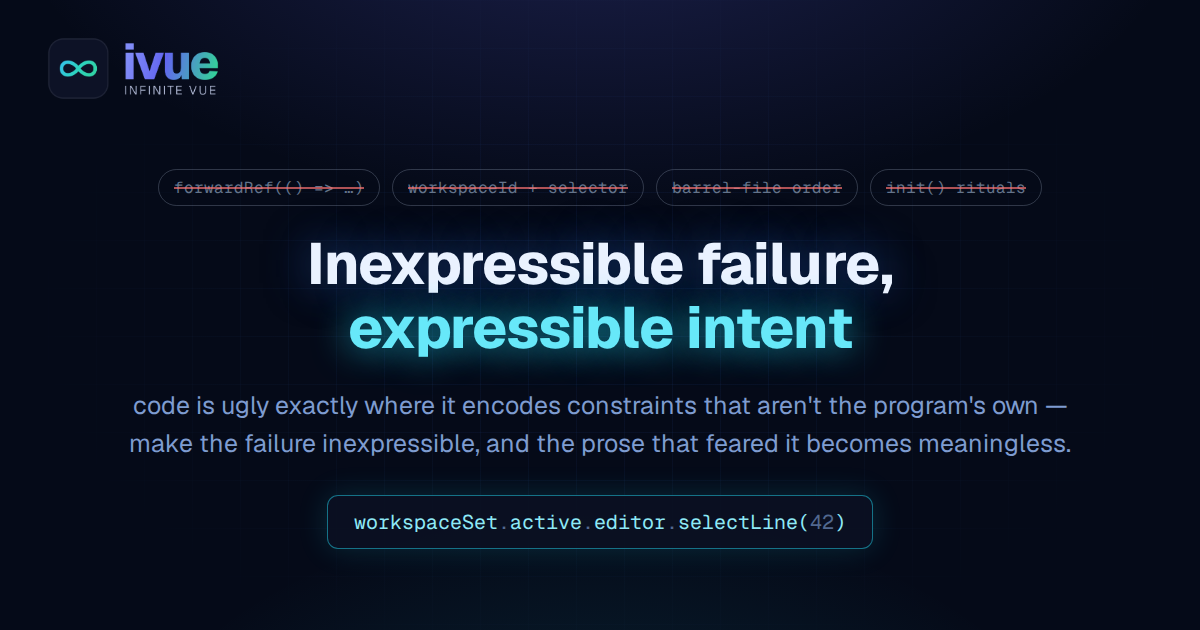
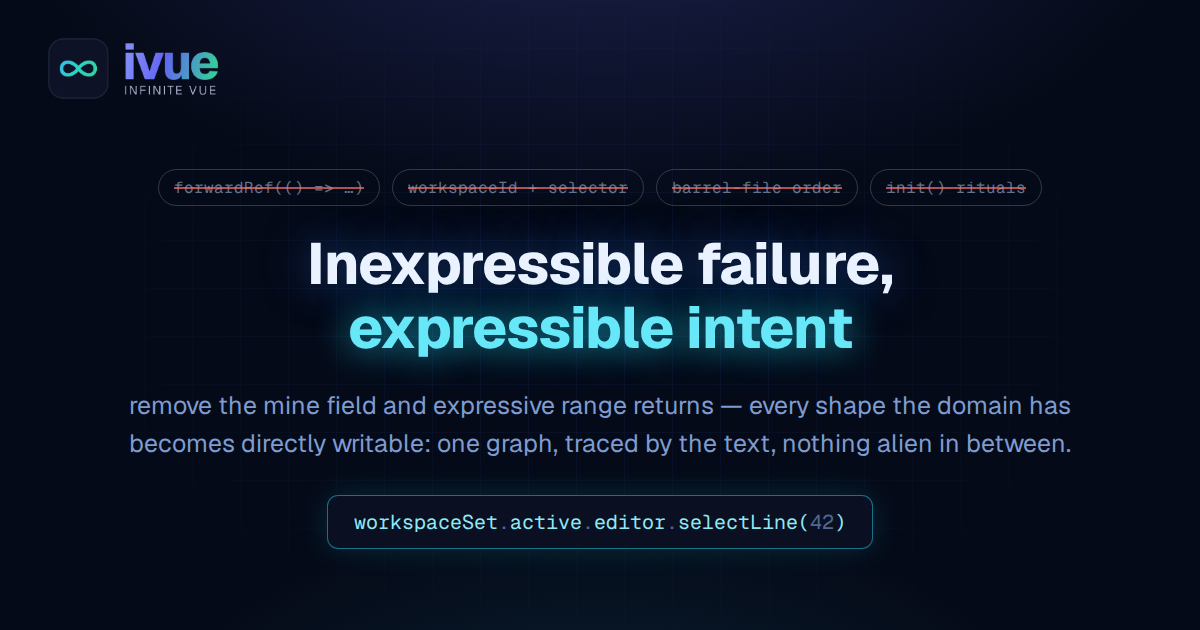
blog: expressive-range reframe, tight preamble, evaluation-order section
The essay's center is shape fidelity, not cleanliness: every shape
the domain has becomes directly writable once the mine field is gone
— the set of writable programs grows back to the set of thinkable
ones. Twelve-line preamble; meat starts at 'The evaluation-order
constraint'.

Changed region(s): [[0.0925, 0.6937, 0.8942, 0.7238], [0.0925, 0.6333, 0.8942, 0.6635]]

diff --git a/.claude/skills/blog-banner/banners/inexpressible-failure-expressible-intent.html b/.claude/skills/blog-banner/banners/inexpressible-failure-expressible-intent.html
@@ -90,7 +90,7 @@
       <span class="fear">init() rituals</span>
     </div>
     <div class="title">Inexpressible failure,<br/><span class="glow">expressible intent</span></div>
-    <div class="sub">code is ugly exactly where it encodes constraints that aren't the program's own —<br/>make the failure inexpressible, and the prose that feared it becomes meaningless.</div>
+    <div class="sub">remove the mine field and expressive range returns — every shape the domain has<br/>becomes directly writable: one graph, traced by the text, nothing alien in between.</div>
     <div class="sentence">workspaceSet<span class="dim">.</span>active<span class="dim">.</span>editor<span class="dim">.</span>selectLine(<span class="dim">42</span>)</div>
   </div>
 </body>

diff --git a/docs_v2/blog/inexpressible-failure-expressible-intent.md b/docs_v2/blog/inexpressible-failure-expressible-intent.md
@@ -1,6 +1,6 @@
 ---
 title: 'Inexpressible failure, expressible intent'
-description: "Code is ugly exactly where it encodes constraints that aren't the program's own. Make the alien failure modes inexpressible and succinctness isn't a style you apply — it's what's left."
+description: "Every failure mode a substrate leaves expressible squats on territory intent should own. Remove the mine field and something bigger than cleanliness returns: every shape the domain has becomes directly writable — one graph, traced by the text with nothing alien interrupting it."
 tags: [philosophy, architecture]
 relatedPosts: [circular-imports-dissolved, the-object-graph-they-took, the-field-not-the-rules, win-by-reduction, what-javascript-becomes]
 date: 2026-08
@@ -12,40 +12,28 @@ date: 2026-08
 
 <BlogPostDate />
 
-A language gives you one space, not two. What you can *say* and what
-can *go wrong* live in the same place — every failure mode a
-substrate leaves expressible sits inside your expression space,
-squatting on territory that intent should own. Not because anyone
-writes the failures on purpose, but because everyone must write the
-code that routes around them — and the routing is text, and the text
-crowds out the program.
-
-So the trade at the heart of this essay is stark:
+Every failure mode a substrate leaves expressible costs you twice:
+once when it fires, and every day in the code you write to route
+around it. The routing is text, and the text crowds out the program.
 
 > Make the failure inexpressible, and the intent becomes expressible.
-> The two spaces are one space; what the mine field vacates, meaning
-> occupies.
+> What the mine field vacates, meaning occupies.
 
-To see what that buys, start with what intent *is*. Every program has
-an intent with a *shape* — a customer holds orders, an order knows
-its customer, a workspace owns an editor, the editor reaches back.
-That shape is a graph, and it belongs to the domain. The notation's
-whole job is to trace it. When the code reads the way the domain
-thinks, we call it beautiful, and we're not being sentimental — we're
-measuring something: **the residual distance between the shape of the
-intent and the shape of the text.** Code is ugly exactly where it
-encodes constraints that are not the program's own.
+A program's intent has a shape — a customer holds orders, an order
+knows its customer, an editor reaches back to its workspace. A graph.
+The notation's one job is to trace that graph at full fidelity. For
+fifteen years, JavaScript modules couldn't — and the reason had
+nothing to do with any program's meaning.
 
-## The alien constraint
+## The evaluation-order constraint
 
-Now watch where the distance comes from. For fifteen years, JavaScript
-module code has been shaped by a constraint that appears nowhere in
-any program's intent: **evaluation order**. No specification ever
-contained the sentence "and module B must finish evaluating before
-module A." The loader's bookkeeping imposed it anyway — a mine field
-laid by ordinary `export` of ordinary classes, where a reference that
-is *meaningful* in the domain is *fatal* in the text, depending on
-which file the bundler happened to walk first.
+It appears in no program's intent. No specification ever contained
+the sentence "and
+module B must finish evaluating before module A." The loader's
+bookkeeping imposed it anyway — a mine field laid by ordinary
+`export` of ordinary classes, where a reference that is *meaningful*
+in the domain is *fatal* in the text, depending on which file the
+bundler happened to walk first.
 
 The failure was expressible, so every team wrote code whose only
 purpose was to not express it:
@@ -61,10 +49,11 @@ purpose was to not express it:
   wouldn't
 
 None of that code expresses intent. All of it expresses *fear* — the
-routing around a failure mode the substrate left open. Multiply it
-across a codebase and you get the familiar texture of enterprise
-JavaScript: correct, defensive, and ugly, because half the text is
-about the loader and none of the domain is about the loader.
+routing around a failure mode the substrate left open. And notice
+what the routing does to the shape: the domain's graph gets
+flattened, its edges replaced by IDs and lookups, its cycles banned
+by lint. The program still *works* — but the text no longer holds the
+domain's shape. It holds the loader's.
 
 ## The reversal
 
@@ -77,10 +66,10 @@ no read can occur while the graph is still loading. Not "is avoided."
 mines possible is gone —
 [measured at 372 files with a deeply cyclic domain graph](/blog/circular-imports-dissolved).
 
-And here is the part that makes it an essay about beauty rather than
-safety: when the failure becomes unwritable, the routing code doesn't
-get cleaned up. It becomes **meaningless** — there is nothing left for
-it to route around. What remains is the direct notation:
+And here is the part that goes past safety: when the failure becomes
+unwritable, the routing code doesn't get cleaned up. It becomes
+**meaningless** — there is nothing left for it to route around. What
+remains is the direct notation:
 
 ```ts
 // the domain sentence, written as the domain thinks it
@@ -102,32 +91,40 @@ loses its reason to exist — every line of it was distance between
 intent and text, paid to a constraint that had nothing to do with
 either.
 
-## Succinctness is a remainder
+## Every shape, writable
 
-This inverts how we usually talk about clean code. Succinctness is not
-a style you apply at the end — no amount of taste turns the second
-snippet into the first while the failure stays expressible. It is a
-**remainder**: what's left when the alien constraints are deleted and
-the notation collapses onto the intent. The
+Here is the part that matters more than any cleanliness: with the
+mine field gone, **there is no shape the domain can have that the
+text cannot trace.** Mutual references — writable. Cycles at any
+depth — writable, because the hazard was per-edge and every edge is
+now late. A five-hop navigation crossing two modules in one
+expression — writable, and reactive along the whole path. The
 [whole-program consequence](/blog/the-object-graph-they-took) is that
 the application becomes one connected graph — entities holding
-entities, stores referencing stores, expression uninterrupted by seams
-that exist only because a loader once needed them.
+entities, stores referencing stores, expression uninterrupted by
+seams that exist only because a loader once needed them.
+
+That is the real return. Not tidier files — **restored expressive
+range**: the set of writable programs grows back until it matches the
+set of thinkable ones. You stop designing around what the substrate
+punishes and design only around what the domain requires — which is
+the only constraint that was ever legitimately yours.
 
 The same logic runs through every piece of the
 [standard](/guide/standard): unbound `this` made inexpressible, so the
 wrapper-closure era ends; forked singletons made inexpressible, so
 defensive DI ceremony ends; initialization races made inexpressible,
 so `init()` rituals end. Each removal doesn't just delete a bug class.
-It deletes the *prose that feared it* — and the code that remains is
-shorter, flatter, and reads like the domain, because for the first
-time it contains nothing else.
+It deletes the *prose that feared it* — and widens what the remaining
+prose can say. The code that results is shorter and flatter as a side
+effect; the point is that it is **complete**: for the first time, the
+text contains the whole shape of the program and nothing else.
 
-> Beauty in code is not decoration. It is the absence of anything
-> alien.
+> Expression at full fidelity: the text traces every edge the domain
+> has, and nothing alien interrupts the tracing.
 
 That is [the field, not the rules](/blog/the-field-not-the-rules),
-seen from the aesthetic side: reshape the space so the degenerate
-moves don't exist, and what people write inside it comes out clean —
-not because everyone became disciplined, but because there is nothing
-ugly left to say.
+seen from the expression side: reshape the space so the degenerate
+moves don't exist, and what remains isn't a restricted language — it
+is a *larger* one, because every shape you could think was already in
+the domain, and now it is in the text.
